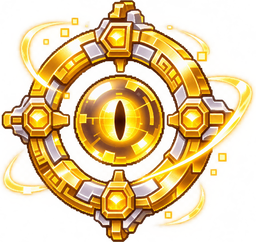
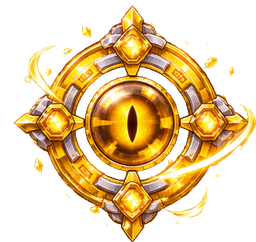
MIDAS helper: the owner's new animated picture (9 frames)
Claude-Session: https://claude.ai/code/session_014wFmWGCviaZX45qxFt5PbG

diff --git a/js/sys/beastkeeper.js b/js/sys/beastkeeper.js
@@ -192,9 +192,14 @@ const BOT_DRAW = {
 const HLP_IMG = {};
 for (const k of Object.keys(HELPERS)){ const im = new Image(); im.onload = () => { HLP_IMG[k] = im; delete BOT_PIC[k]; }; im.onerror = () => {}; im.src = `assets/helpers/${k}.png?v=${typeof GAMEV !== 'undefined' && GAMEV ? GAMEV : 274}`; }
 const HLP_SHINE = document.createElement('canvas');
+/* (v274) a helper whose picture the owner sent as an animation plays it: a strip of frames, assets/helpers/<k>_anim.png */
+const HLP_ANIM = {midas:{n:9, dt:.14}}, HLP_FR = {};
+for (const k in HLP_ANIM){ const im = new Image(); im.onload = () => { const n = HLP_ANIM[k].n, w = Math.floor(im.width / n), out = [];
+    for (let i = 0; i < n; i++){ const c = document.createElement('canvas'); c.width = w; c.height = im.height; c.getContext('2d').drawImage(im, i * w, 0, w, im.height, 0, 0, w, im.height); out.push(c); } HLP_FR[k] = out; };
+  im.onerror = () => {}; im.src = `assets/helpers/${k}_anim.png?v=${typeof GAMEV !== 'undefined' && GAMEV ? GAMEV : 274}`; }
 const HLP_IMG_SZ = 24;   // (v274) about half the hero's height: a helper, not a second hero (34 was too big)
 function drawBotImg(g, k, t, opt){
-  const im = HLP_IMG[k], R = HELPERS[k], c = R.c, sz = opt.size || HLP_IMG_SZ, k2 = sz / Math.max(im.width, im.height), w = im.width * k2, h = im.height * k2;
+  const FR = HLP_FR[k], im = FR && !(typeof GFX !== 'undefined' && GFX.preset === 'low') ? FR[Math.floor(t / HLP_ANIM[k].dt) % FR.length] : HLP_IMG[k], R = HELPERS[k], c = R.c, sz = opt.size || HLP_IMG_SZ, k2 = sz / Math.max(im.width, im.height), w = im.width * k2, h = im.height * k2;
   const still = typeof GFX !== 'undefined' && GFX.preset === 'low', ph = (k.charCodeAt(0) || 1) * .7;
   const breathe = still ? 1 : 1 + Math.sin(t * 2.4 + ph) * .035, tilt = still ? 0 : (opt.mv ? .14 * (opt.face || 1) : Math.sin(t * 1.3 + ph) * .07);
   // glow behind, in its own colour, breathing

diff --git a/index.html b/index.html
@@ -289,7 +289,7 @@
 <script src="js/sys/buyqty.js?v=184"></script>
 <script src="js/sys/statup.js?v=111"></script>
 <script src="js/sys/herbfx.js?v=111"></script>
-<script src="js/sys/beastkeeper.js?v=277"></script>
+<script src="js/sys/beastkeeper.js?v=279"></script>
 <script src="js/ui/menuicons.js?v=111"></script>
 <script src="js/sys/fame.js?v=111"></script>
 <script src="js/sys/cooking.js?v=273"></script>
